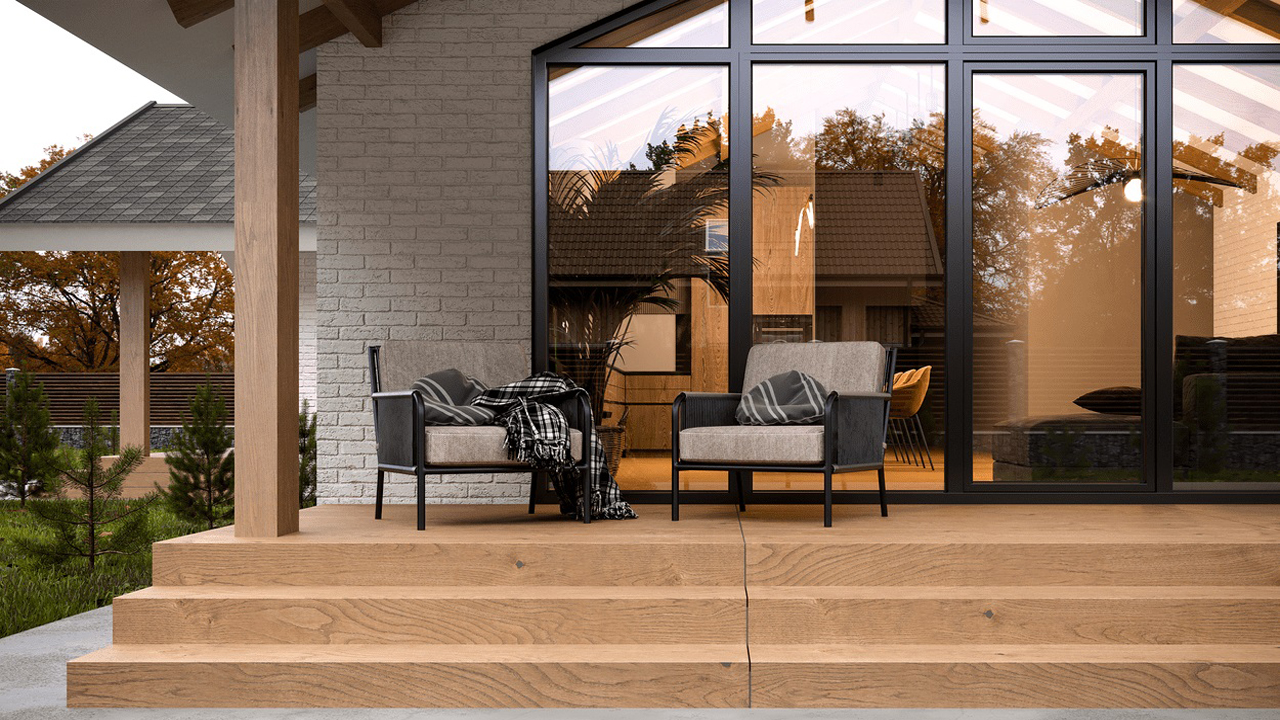
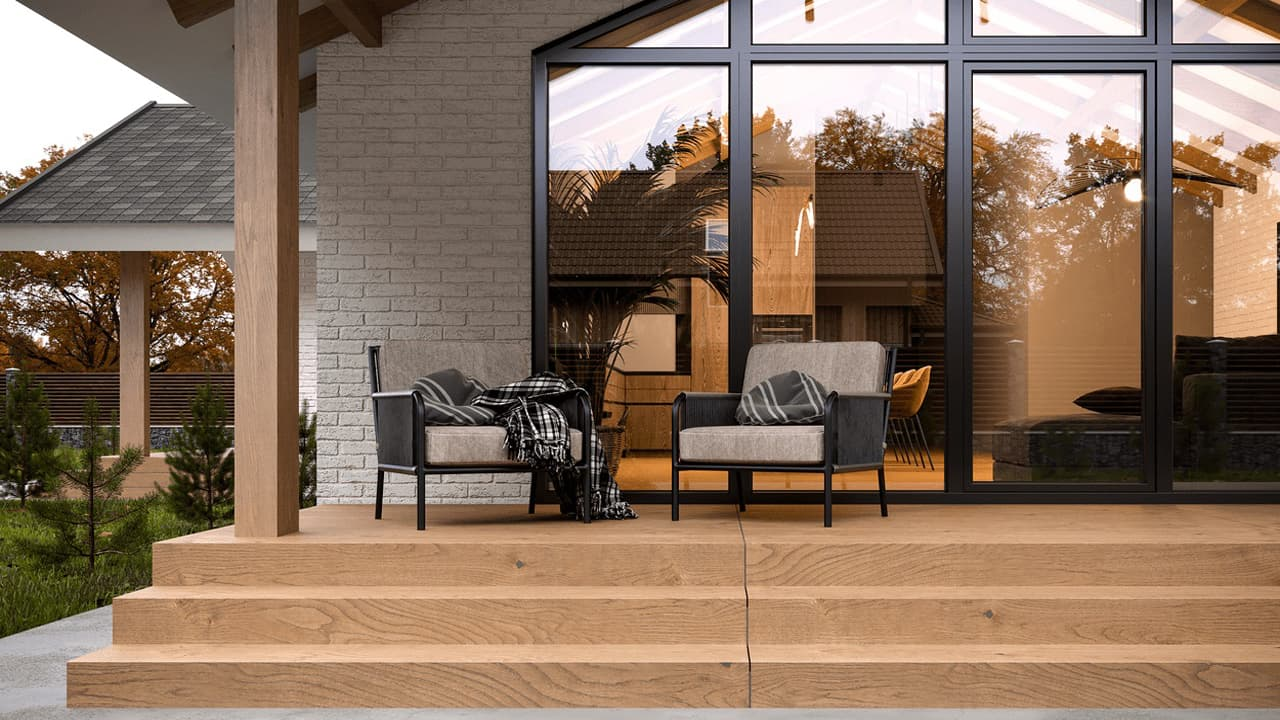
add foto AET-102

diff --git a/index.html b/index.html
@@ -38,9 +38,9 @@
 					В&nbsp;доме имеется 3&nbsp;спальни, 2&nbsp;санузла, гостинная, кухня, гардероб, терасса.
 				</p>
 				<div class="project_img">
-					<img src="img/Project3.png" alt="Фотография частного дома" loading="lazy">
-					<img src="img/Project32.png" alt="Фотография частного дома" loading="lazy">
-					<img src="img/Project33.png" alt="Фотография частного дома" loading="lazy">
+					<img src="img/Project3.jpg" alt="Фотография частного дома" loading="lazy">
+					<img src="img/Project32.jpg" alt="Фотография частного дома" loading="lazy">
+					<img src="img/Project33.jpg" alt="Фотография частного дома" loading="lazy">
 					<img src="img/project31.jpg" alt="Фотография частного дома" loading="lazy">
 				</div>				
 			</div>
